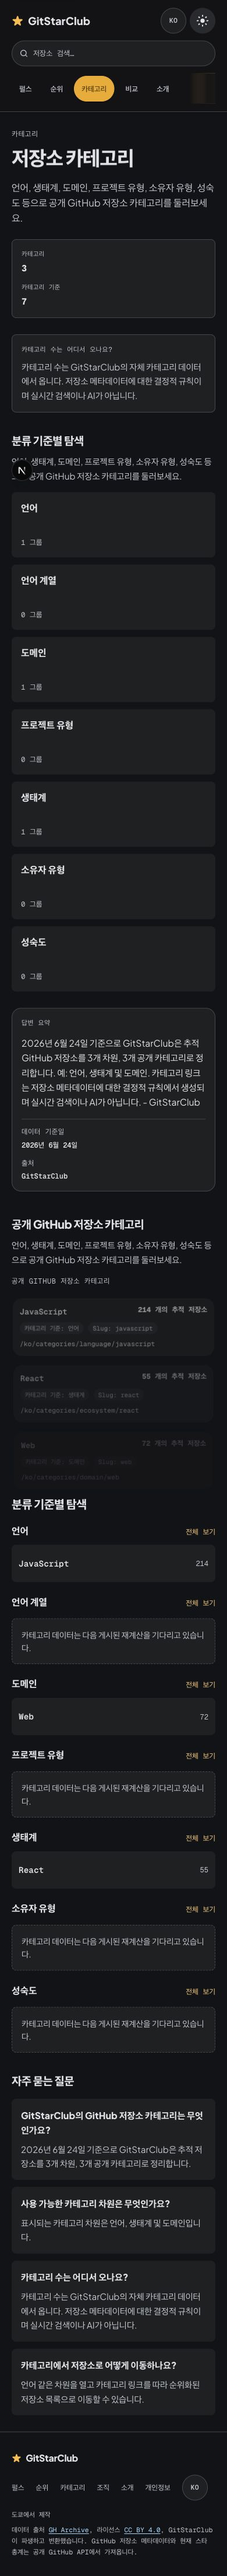
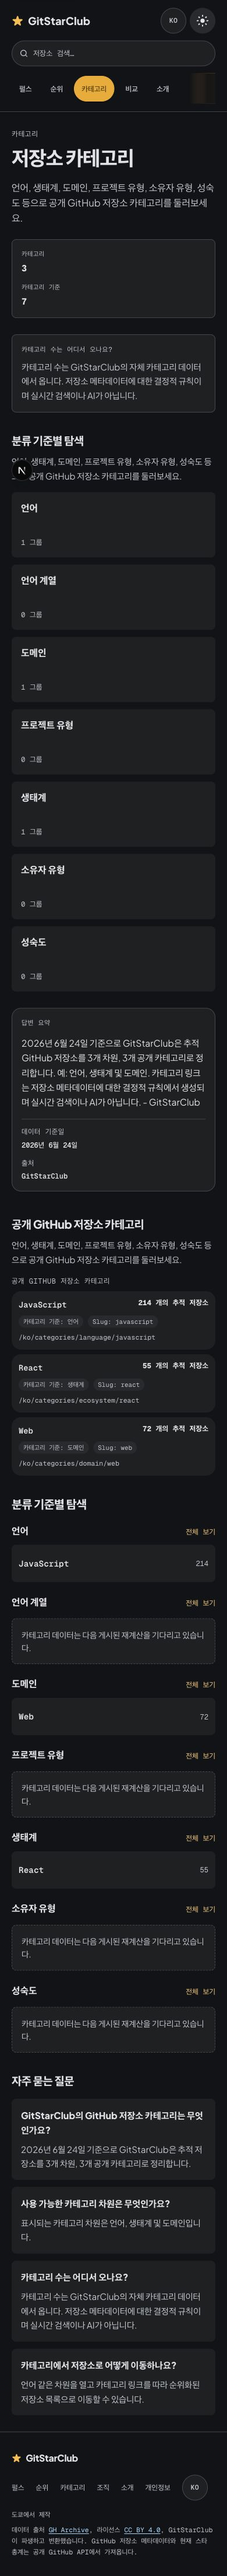
docs: stabilize responsive screenshot evidence

diff --git a/plans/612-screenshots/README.md b/plans/612-screenshots/README.md
@@ -4,7 +4,9 @@ These full-page screenshots show the actual localized `/ko/categories` page in
 local Microsoft Edge, using only a read-only GET/HEAD fixture at loopback.
 Desktop viewport: 1440 x 1000. Mobile viewport: 390 x 844.
 
-Before: `origin/pre` at `b9650f0`. After: implementation at `6095860`.
+Before: the original `detail-copy.ts` from `origin/pre` at `b9650f0`.
+After: implementation at `6095860`. The baseline copy was restored temporarily
+for recaptures, then the committed implementation was restored unchanged.
 Both use the same date (June 24, 2026), three dimensions (language, ecosystem,
 domain), and fixture counts. The empty fixture retains those dimensions but
 has no categories. The development server and its data cache were restarted
@@ -12,7 +14,8 @@ between fixture modes; the empty page was verified to contain no table.
 
 The intentional change appears in the answer capsule and the second FAQ:
 Korean conjunction replaces the previous English `and`. Both widths have no
-horizontal document overflow. Owner screenshot sign-off is required before
+horizontal document overflow. Populated captures were retaken after visible
+category row/card animation opacity reached 1. Owner screenshot sign-off is required before
 merge. No live bucket, platform API, or deployed page was used.
 
 | State | Before | After |

diff --git a/plans/612-localized-copy.md b/plans/612-localized-copy.md
@@ -40,7 +40,7 @@ verification trees in `/tmp/GSC_0056/`, and leave the task checkout clean.
 
 ## Acceptance
 
-- All seven locale tables have identical keys and placeholders.
+- All seven locale tables have identical keys; builders resolve their placeholders.
 - Korean category capsule/FAQ lists use Korean conjunctions; the other six
   locales retain their baseline output.
 - Tests exercise the production localized builders, including empty and
